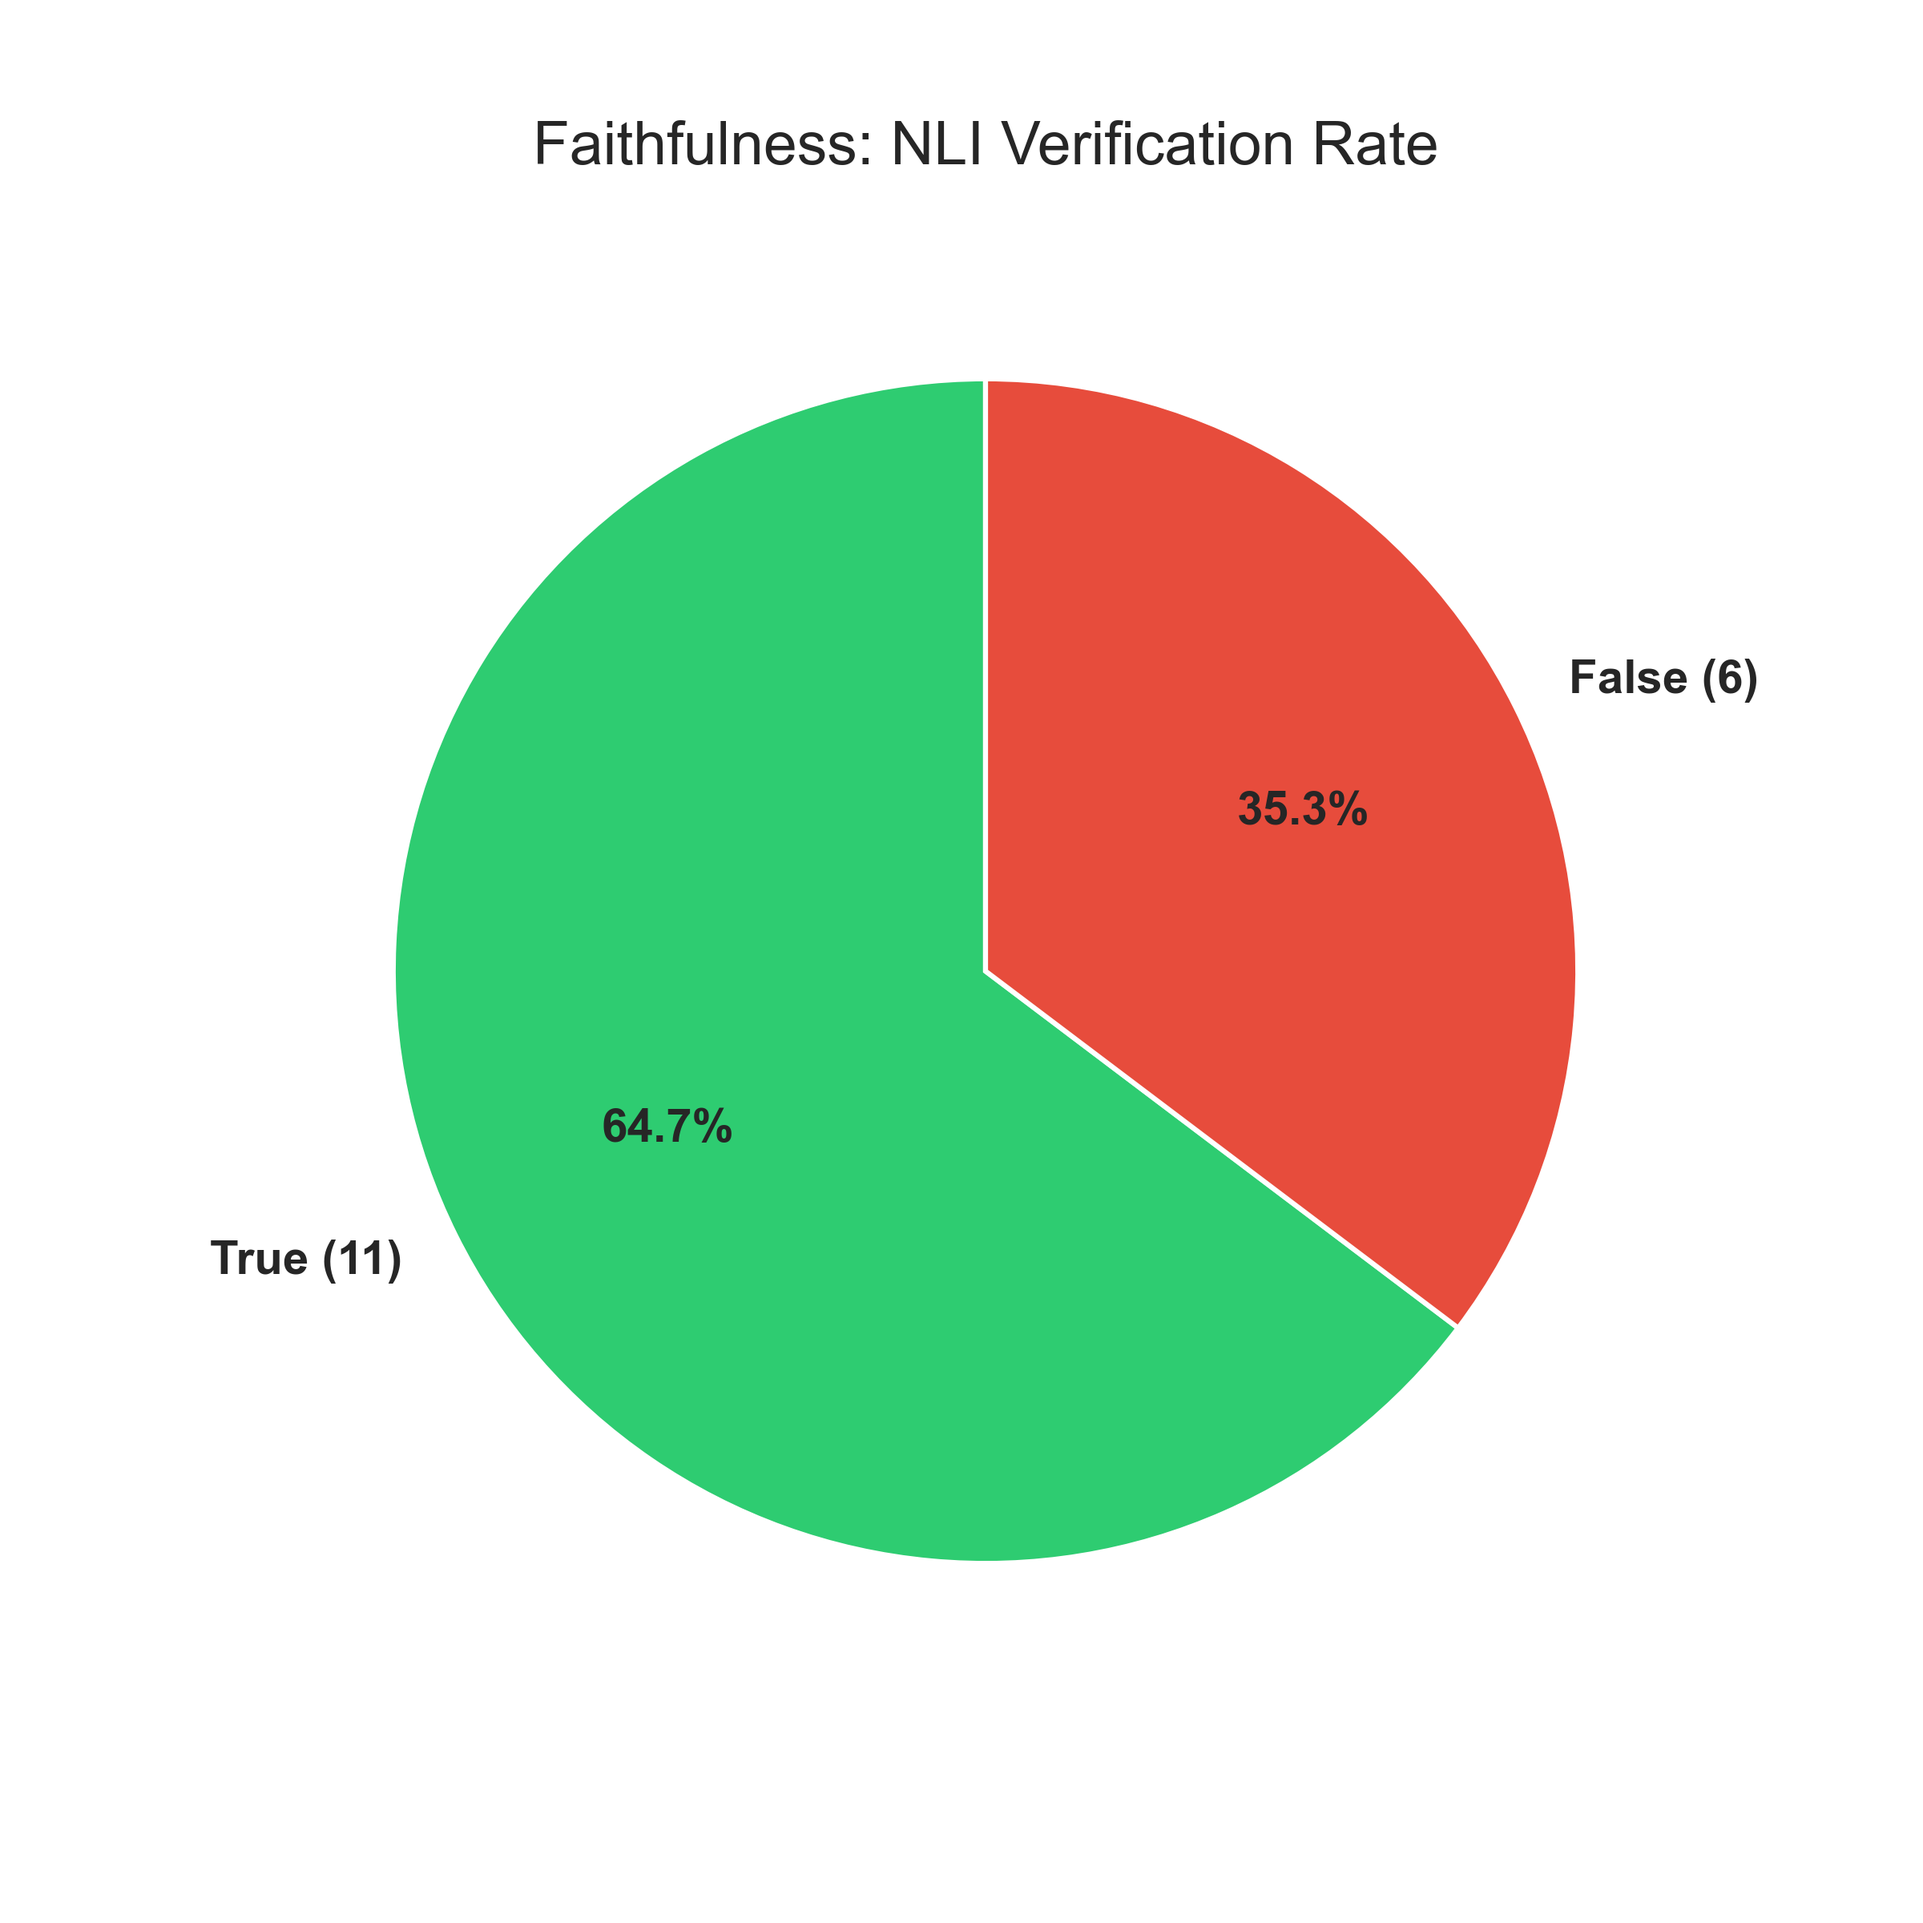
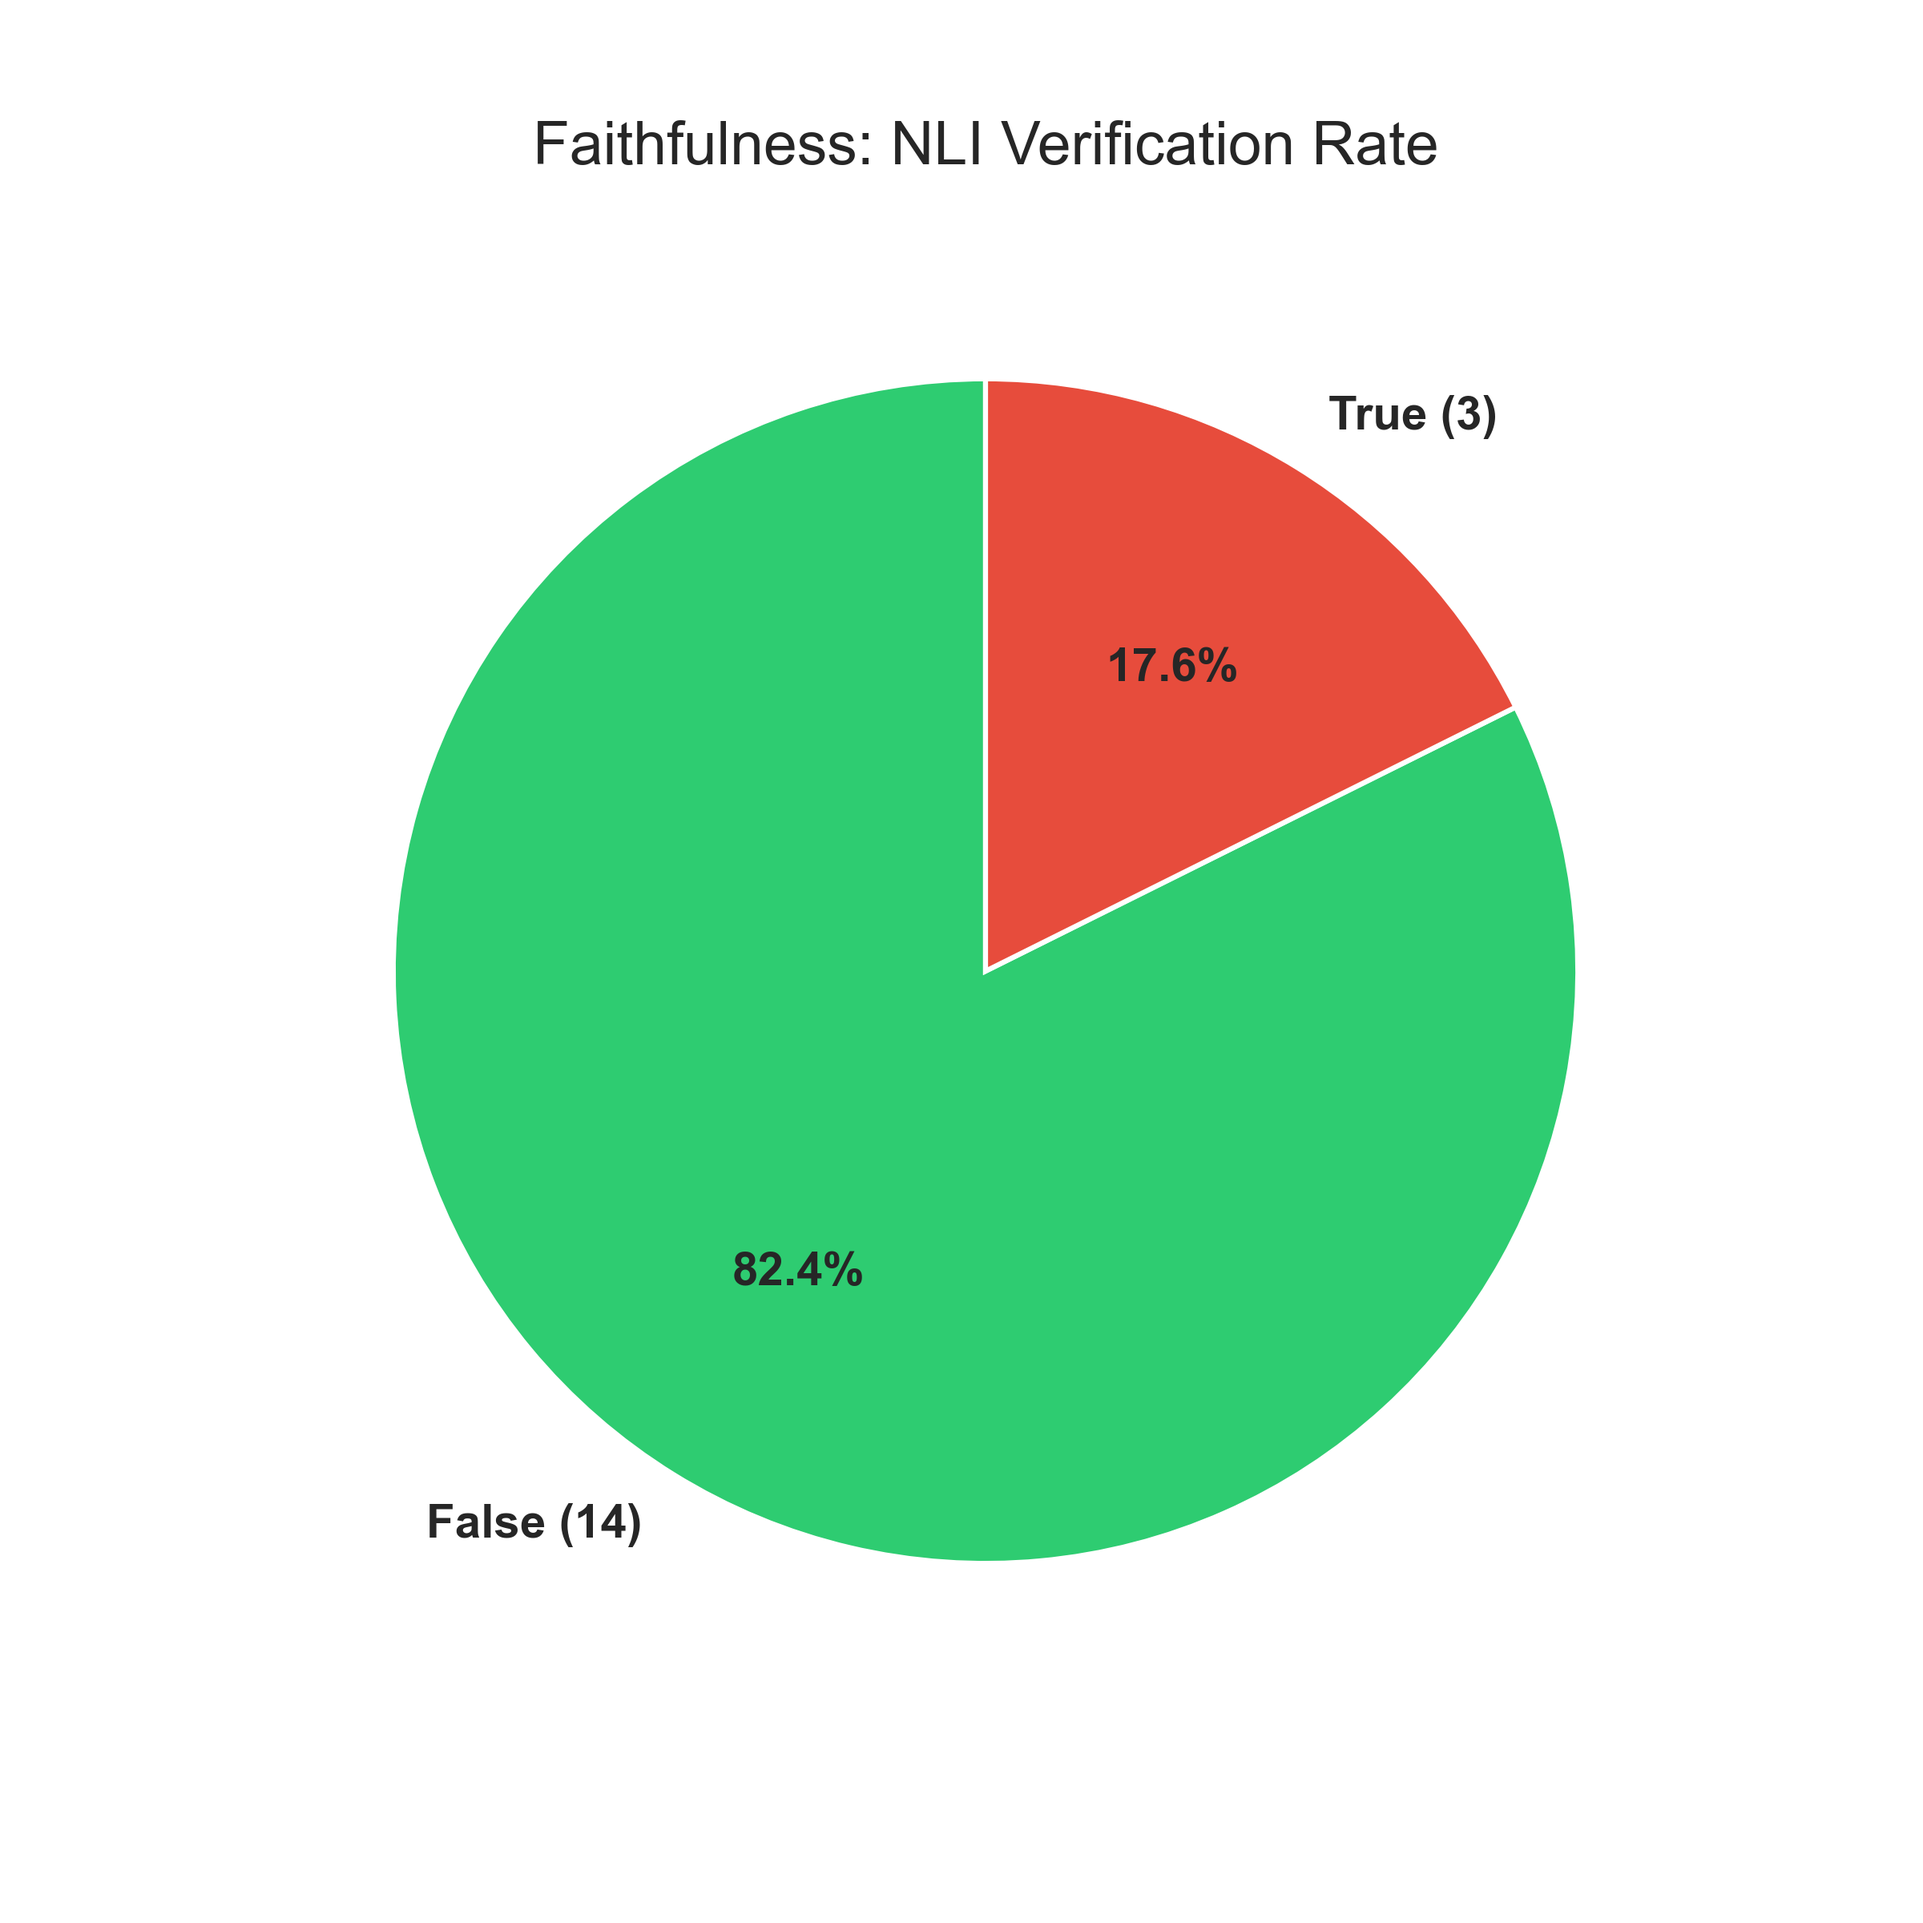
better verification using NLI

diff --git a/rag/nli_verifier.py b/rag/nli_verifier.py
@@ -7,11 +7,15 @@ def get_nli_model() -> CrossEncoder:
     if _nli_model is None:
         print("[NLI] Loading NLI Verification model (cross-encoder/nli-distilroberta-base)...")
         _nli_model = CrossEncoder('cross-encoder/nli-distilroberta-base', tokenizer_args={'use_fast': False})
+        
     return _nli_model
+
+import re
 
 def verify_answer_nli(answer: str, chunks: list[dict]) -> dict:
     """
     Verifies if the generated answer is supported by the provided chunks using an NLI CrossEncoder.
+    Now uses multi-hop reasoning (aggregates top chunks) and sentence-by-sentence evaluation.
     Returns: {"verified": bool, "explanation": str}
     """
     if not chunks:
@@ -19,33 +23,42 @@ def verify_answer_nli(answer: str, chunks: list[dict]) -> dict:
         
     model = get_nli_model()
     
-    # Loop through top 5 chunks to see if ANY chunk successfully entails the answer.
-    # This prevents the 512 token limit from hiding evidence located in chunk 3 or 4.
-    best_entailment = -999.0
-    best_scores = [0, 0, 0]
-    
-    for c in chunks[:5]:
-        premise = c.get("text_content", "")
-        if not premise: continue
+    # --- Solution 3: Aggregate Context (Multi-Hop) ---
+    # Combine the top 3 chunks into a single premise
+    combined_premise = " ".join([c.get("text_content", "") for c in chunks[:3] if c.get("text_content")])
+    if not combined_premise.strip():
+        return {"verified": False, "explanation": "No valid text content found in retrieved chunks."}
         
-        # Predict pair
-        scores = model.predict([(premise, answer)])[0]
-        entailment_score = scores[1]
+    # --- Solution 2: Evaluate Sentence-by-Sentence ---
+    # Split the generated answer into individual sentences
+    sentences = [s.strip() for s in re.split(r'(?<=[.!?])\s+', answer) if s.strip()]
+    if not sentences:
+        sentences = [answer] # Fallback if splitting fails
         
-        if entailment_score > best_entailment:
-            best_entailment = entailment_score
-            best_scores = scores
-            
-    contradiction = best_scores[0]
-    entailment    = best_scores[1]
-    neutral       = best_scores[2]
+    # Build batch pairs to evaluate all sentences at once, saving massive time
+    pairs = [(combined_premise, sent) for sent in sentences]
+    scores_list = model.predict(pairs)
+        
+    explanations = []
+    has_contradiction = False
     
-    # Simple deterministic gate: Entailment vs Contradiction
-    verified = bool(entailment > contradiction)
+    # Check entailment for each sentence individually
+    for sent, scores in zip(sentences, scores_list):
+        contradiction = scores[0]
+        entailment = scores[1]
+        neutral = scores[2]
+        
+        # Log explanation for each sentence
+        explanations.append(f"[{sent[:25]}...] E:{entailment:.2f} C:{contradiction:.2f}")
+        
+        # If any sentence is contradicted by the premise, fail the whole answer
+        if contradiction > entailment:
+            has_contradiction = True
     
-    explanation = f"NLI Max Scores -> Entailment: {entailment:.2f} | Contradiction: {contradiction:.2f} | Neutral: {neutral:.2f}"
+    # Verified only if NO sentences contradict the text
+    verified = not has_contradiction
     
     return {
         "verified": verified,
-        "explanation": explanation
+        "explanation": " | ".join(explanations)
     }
